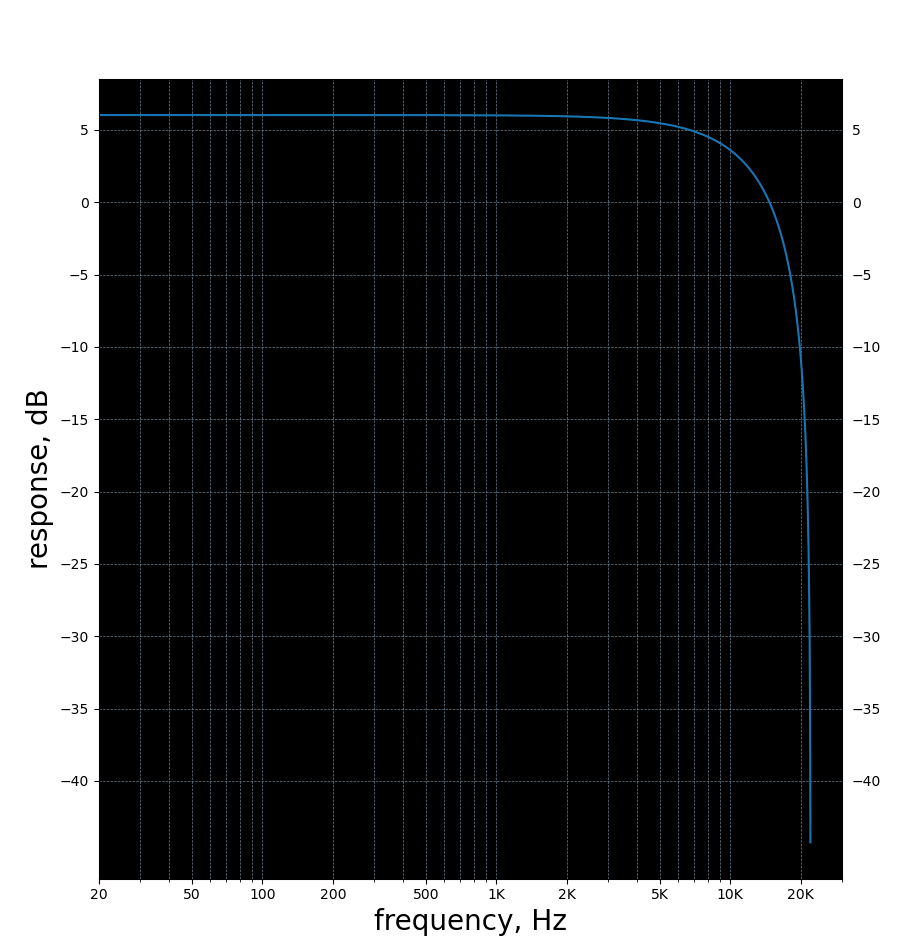
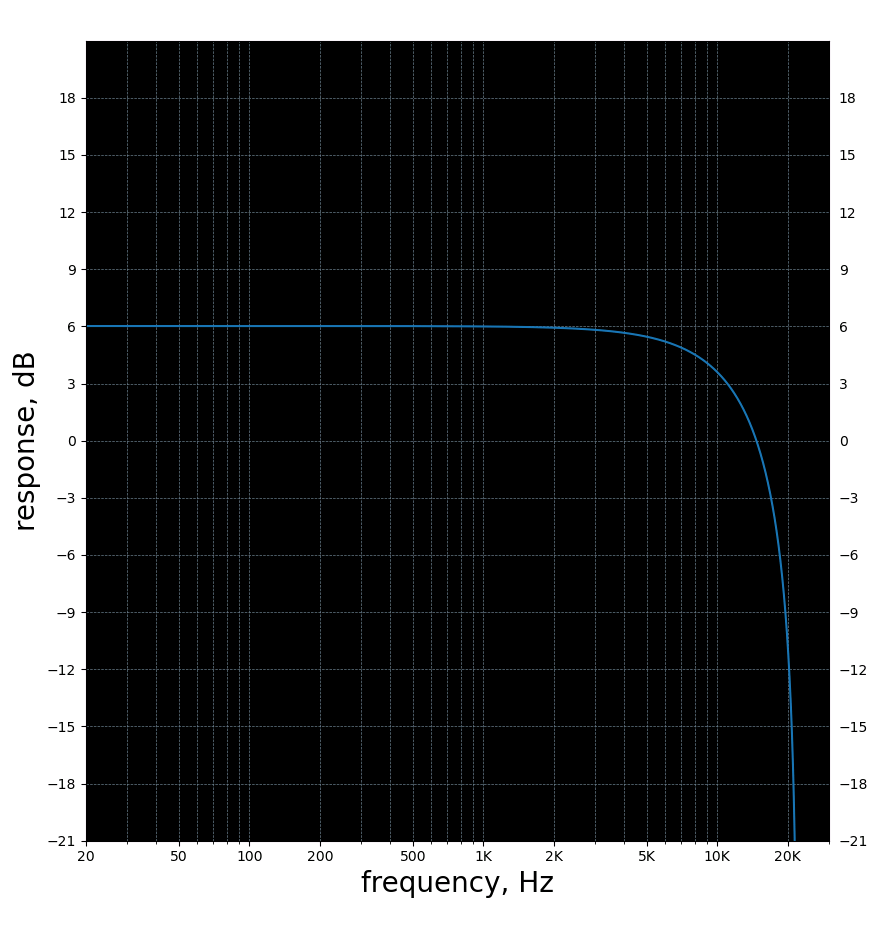
Update graph

diff --git a/freq_resp.py b/freq_resp.py
@@ -16,7 +16,8 @@ ax.set_xlabel('frequency, Hz', fontsize=20, loc='center')
 ax.set_ylabel('response, dB', fontsize=20, loc='center')
 plt.plot(x, y)
 plt.grid(which="both", axis='both', color='slategray', linestyle='--', linewidth=0.5)
-plt.yticks(range(-40, 10, 5)) # la escala del eje Y cada 5 entre 0 y -40dB
+plt.ylim([-21, 21])
+plt.yticks(range(-21, 21, 3)) # la escala del eje Y cada 5 entre 0 y -40dB
 _ = plt.xticks([20,50,100,200,500,1000,2000,5000,10000,20000],
         ["20", "50", "100", "200", "500", "1K", "2K", "5K", "10K", "20K"])
 
